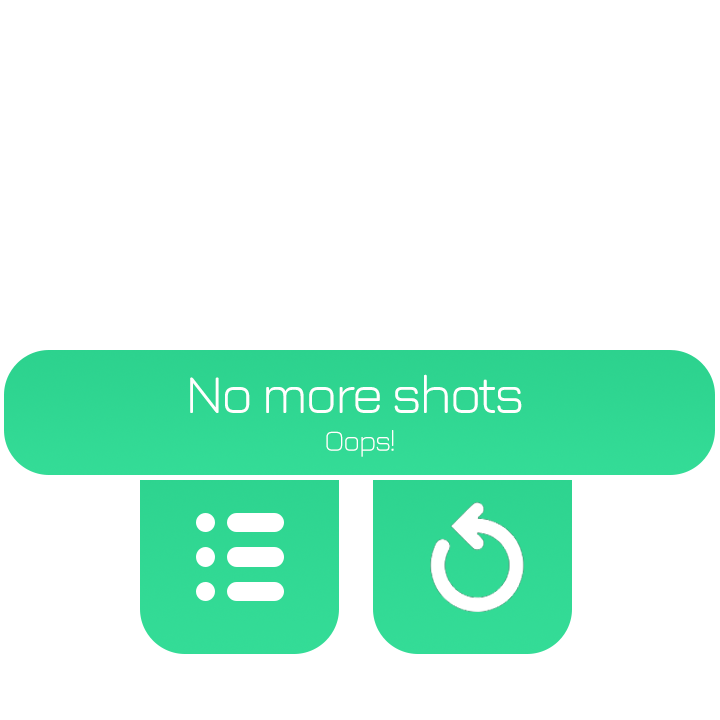
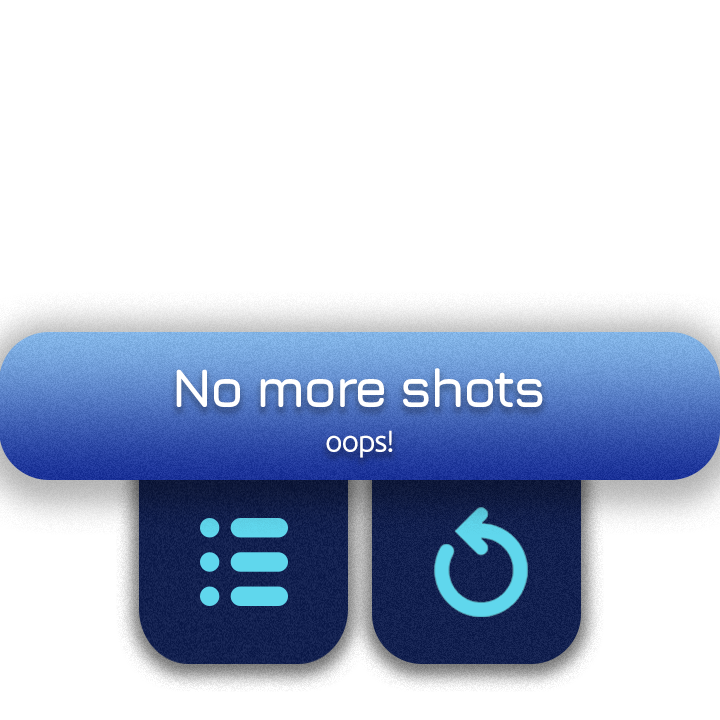
Added FailUI fixed bug with restarting that the stars dont reset

diff --git a/Physics Game/Game/Z.Game/z.MainMechanics/Package.cs b/Physics Game/Game/Z.Game/z.MainMechanics/Package.cs
@@ -32,7 +32,7 @@ public class Package : Ball
     {
         base.Update();
 
-        
+
         if (timer <= 0 || latestCollision is Enemy2Way)
         {
 
@@ -40,17 +40,40 @@ public class Package : Ball
             MyGame myGame = ((MyGame)game);
             for (int i = 0; i < myGame.GetNumberOfMovers(); i++)
             {
+
                 if (myGame.GetMover(i) == this)
                 {
-                    myGame.RemoveBalls(this);
-                    this.LateDestroy();
+
+                    Scene scene = SceneManager.instance.GetActiveScene();
+
+                    if (scene is Levels)
+                    {
+                        Levels lev = scene as Levels;
+                        if (lev.cannon.shots <= 0 && lev.ballsActive <= 1)
+                        {
+
+                            Pause_FailUI failUI = new Pause_FailUI(false);
+                            lev.AddChild(failUI);
+                            failUI.paused = true;
+                        }
+                        lev.ballsActive--;
+                        Console.WriteLine(lev.ballsActive);
+                        myGame.RemoveBalls(this);
+                        this.LateDestroy();
+                    }
+                    
+
                 }
+
+
+
             }
-
-
-
-
         }
+
+
+
+
+        
         else
         {
             if (acid) timer -= Time.deltaTime / 500.0f;
@@ -58,6 +81,7 @@ public class Package : Ball
             alpha = 0.2f * timer;
         }
     }
+
 
 
     //Changes the speed after a speedpad has been hit

diff --git a/Physics Game/Game/ButtonMenus.cs b/Physics Game/Game/ButtonMenus.cs
@@ -20,7 +20,7 @@ public class ButtonMenu : Sprite
         width = pWidth;
         height = pHeight;
         scene = pScene;
-        alpha = 1;
+        alpha = 0;
 
         py = pY;
     }
@@ -36,9 +36,13 @@ public class ButtonMenu : Sprite
         if (!isActive) return;
         if (Input.mouseX < (x + px) + width/2 && Input.mouseX > (x + px) - width/2 && Input.mouseY < (y + py) + height/2 && Input.mouseY > (y + py) - height/2)
         {
-      //      _hover.alpha = 1;
+            //      _hover.alpha = 1;
 
-            if (Input.GetMouseButtonDown(0)) SceneManager.instance.LoadScene(scene);
+            if (Input.GetMouseButtonDown(0))
+            {
+                ((MyGame)game).GetCollectableSystem.RestartStarsLevel();
+                SceneManager.instance.LoadScene(scene);
+            }
         }
         //else _hover.alpha = 0;
     }

diff --git a/Physics Game/Game/Z.Game/z.MainMechanics/Cannon.cs b/Physics Game/Game/Z.Game/z.MainMechanics/Cannon.cs
@@ -87,7 +87,14 @@ public class Cannon : Sprite
             ((MyGame)game)._movers.Add(ball);
             parent.AddChild(ball);
             ball.rotation = rotation ;
+            if (parent is Levels)
+            {
+                Levels level = (Levels)parent;
+                level.ballsActive++;
 
+
+
+            }
         //   HUD _hud = ((MyGame)game).GetHUD;
             shots--;
         //    _hud.UpdateShots();

diff --git a/Physics Game/Game/Z.Game/z.Levels/Levels.cs b/Physics Game/Game/Z.Game/z.Levels/Levels.cs
@@ -13,6 +13,7 @@ public class Levels : Scene
     private SFXHandler sfxHandler;
     protected MyGame myGame;
 
+    public int ballsActive = 0;
     Pause_FailUI pauseMenu;
 
     bool paused = false;
@@ -28,7 +29,7 @@ public class Levels : Scene
         objectOwner = new Pivot();
         pauseMenu = new Pause_FailUI(true);
         myGame = (MyGame)game;
-
+        ballsActive = 0;
         MakeLevel();
 
         

diff --git a/Physics Game/Game/Z.Game/z.Levels/World1/LevelOne.cs b/Physics Game/Game/Z.Game/z.Levels/World1/LevelOne.cs
@@ -10,7 +10,7 @@ public class LevelOne : Levels
     public static SoundChannel levelOneBg = new SoundChannel(1);
   //  Sound levelOne = new Sound("cloudsBG.mp3", true, false);
 
-    Cannon cannon;
+   
     public LevelOne(Dictionary<string, Sound> soundLibrary) : base(soundLibrary)
     {
     }
